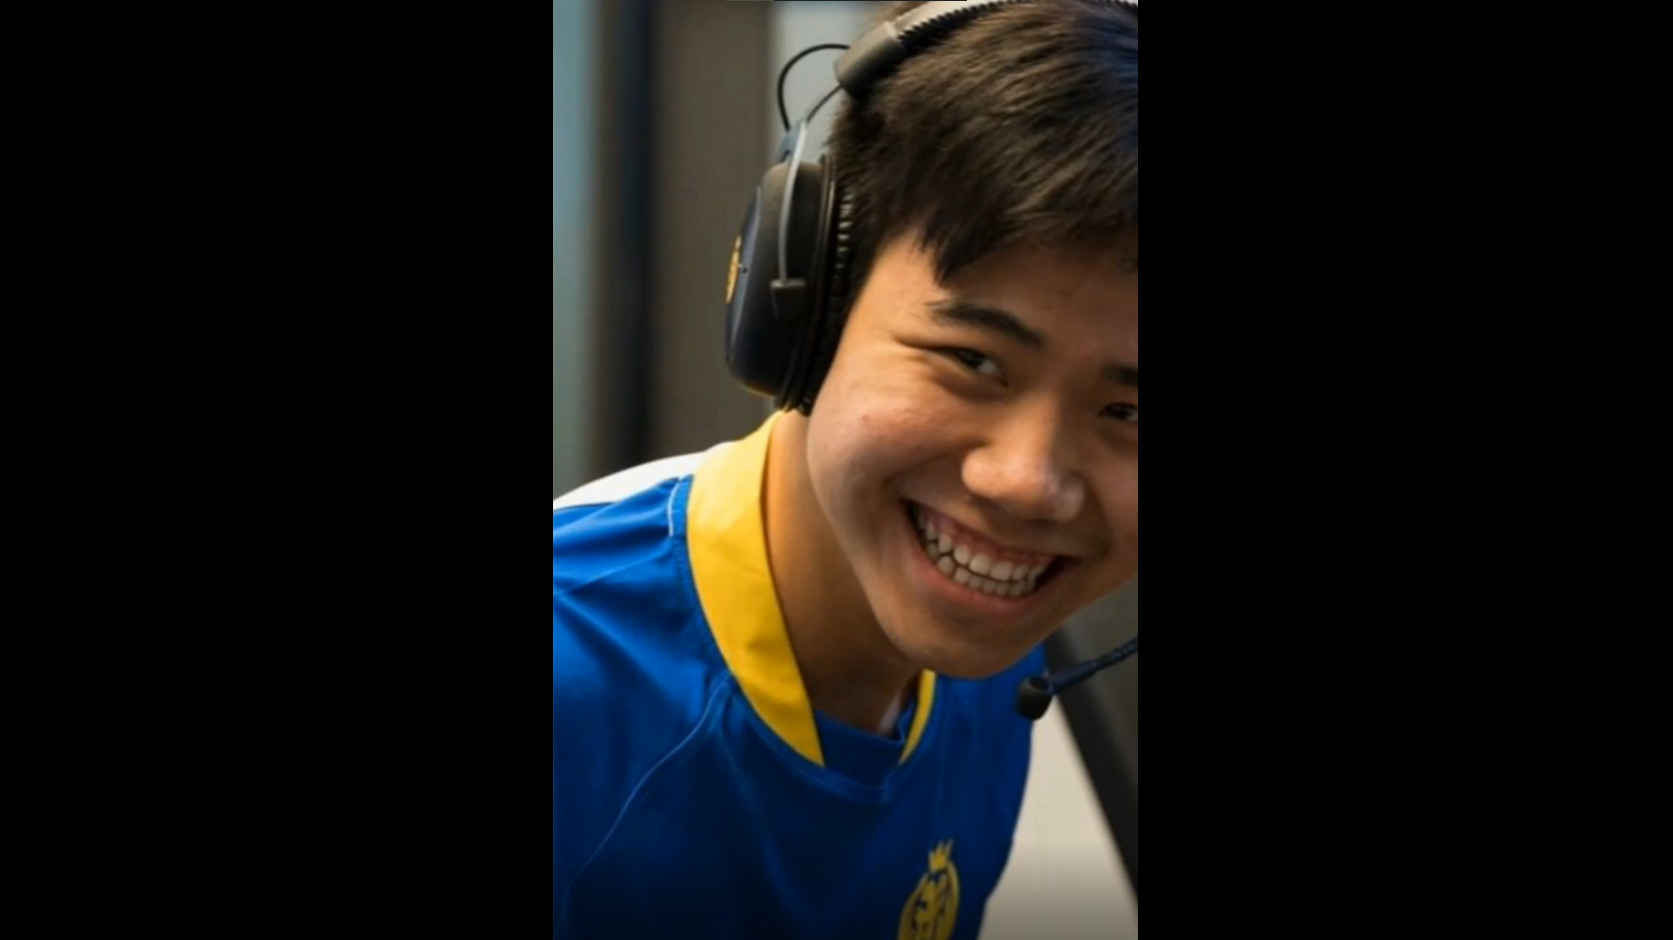
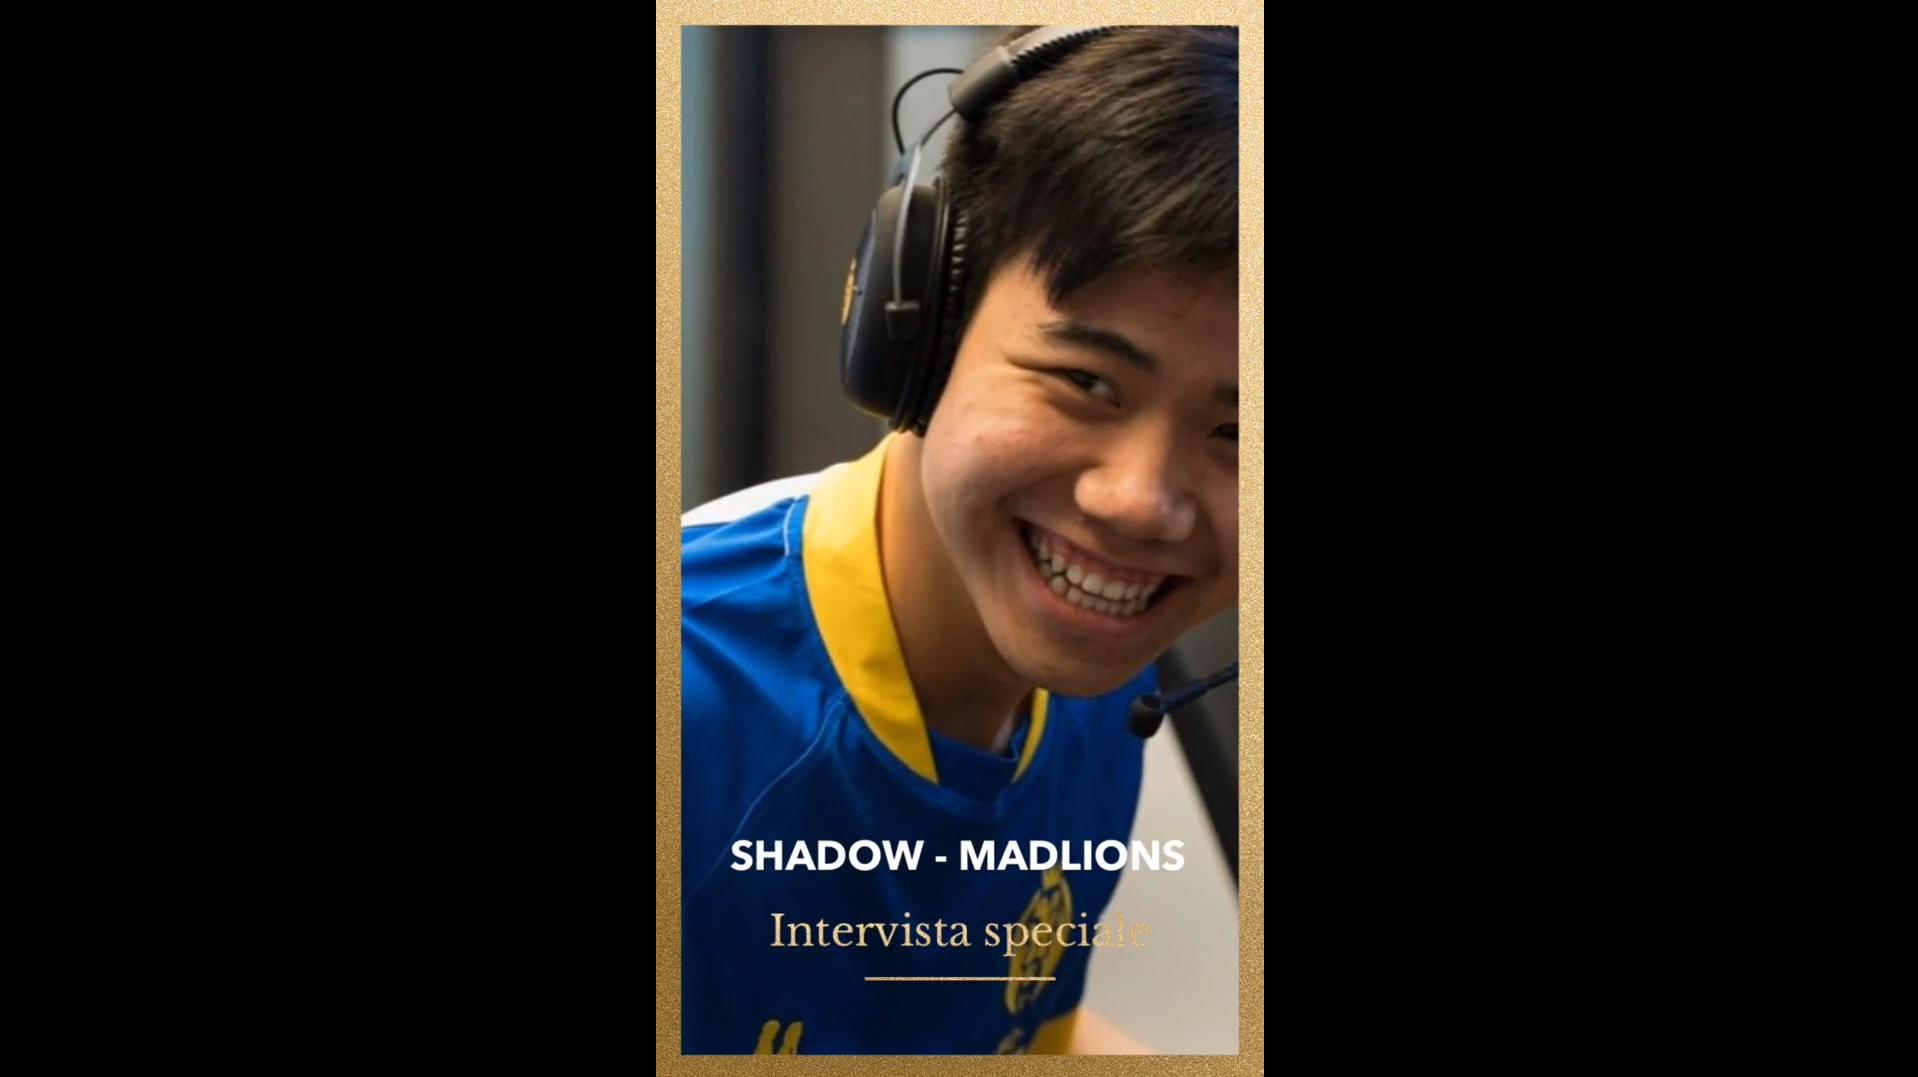
update

Changed region(s): [[0.3108, 0.0, 0.6838, 1.0]]

diff --git a/news/esports.php b/news/esports.php
@@ -24,7 +24,10 @@
             <div class="container">
 
                 <div class="d-flex justify-content-between align-items-center">
-                    <h2>E-Sport: da passione a lavoro</h2>
+                    <div>
+                        <h2>E-Sport: da passione a lavoro</h2>
+                        <p>Intervista speciale Shaodow di Mad Lions</p>
+                    </div>
 
                     <ol>
                         <li><a href="../index.php">Home</a></li>
@@ -341,7 +344,7 @@
                                 <ul>
                                     <li><a href="#1">1. Cos’è League of Legends?</a></li>
                                     <li><a href="#2">2. Videogiochi ed E-Sport</a></li>
-                                    <li><a href="#3">3. Come si diventa giocatori professionisti</a></li>
+                                    <li><a href="#3">3. Come si diventa giocatori professionisti: chiediamolo a Shadow!</a></li>
                                 </ul>
 
                             </div><!-- End sidebar categories-->

diff --git a/notizie.php b/notizie.php
@@ -48,9 +48,7 @@
                 <h5 class="card-title"><a href="news/esports.php">E-Sport: da passione a lavoro</a></h5>
                 <p class="card-text">L’E-Sport, la disciplina legata ai videogiochi praticato a livello
                   competitivo, nutre da diversi decenni un grande interesse e attenzione da parte dei
-                  giovani, soprattutto negli ultimi anni ha iniziato a crescere esponenzialmente fino
-                  a raggiungere un impatto anche a livello mondiale, nel 2020 si stima un numero di
-                  oltre 2,5 miliardi di videogiocatori.</p>
+                  giovani. <br>In questo articolo parleremo di Zhiqiang Zhao conosciuto anche come Shadow, atleta della squadra posizionata al primo posto nella classifica europea!</p>
                 <div class="read-more"><a href="news/esports.php"><i class="icofont-arrow-right"></i> Read More</a></div>
               </div>
             </div>
